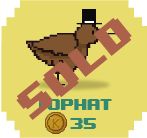
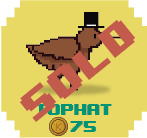
BackKeyCatcher implementado con problemas

diff --git a/core/src/com/mygdx/menudemo/StartScreen.java b/core/src/com/mygdx/menudemo/StartScreen.java
@@ -1,6 +1,7 @@
 package com.mygdx.menudemo;
 
 import com.badlogic.gdx.Gdx;
+import com.badlogic.gdx.Input;
 import com.badlogic.gdx.Preferences;
 import com.badlogic.gdx.ScreenAdapter;
 import com.badlogic.gdx.audio.Music;
@@ -45,6 +46,12 @@ class StartScreen extends ScreenAdapter {
     private Music music;
     private Preferences preferencias;
     private float musicVolume;
+    private Texture quitPanelTexture;
+    private Texture yesQuitTexture;
+    private Texture yesQuitPressTexture;
+    private Texture noQuitTexture;
+    private Texture noQuitPressTexture;
+    private Stage quitStage;
 
 
     public StartScreen(MenuDemo menuDemo) {
@@ -143,6 +150,35 @@ class StartScreen extends ScreenAdapter {
             }
         });
 
+        quitStage = new Stage(new FitViewport(WORLD_WIDTH, WORLD_HEIGHT));
+
+        /*quitPanelTexture = new Texture(Gdx.files.internal("back/quitpanel.png"));
+        Image quitPanel = new Image(quitPanelTexture);
+
+        yesQuitTexture = new Texture(Gdx.files.internal("back/yes.png"));
+        yesQuitPressTexture = new Texture(Gdx.files.internal("back/yesPress.png"));
+        ImageButton yesQuit = new ImageButton(new TextureRegionDrawable(new TextureRegion(yesQuitTexture)), new TextureRegionDrawable(new TextureRegion(yesQuitPressTexture)));
+        yesQuit.addListener(new ActorGestureListener(){
+            @Override
+            public void tap(InputEvent event, float x, float y, int count, int button) {
+                Gdx.app.exit();
+            }
+        });
+
+        noQuitTexture = new Texture(Gdx.files.internal("back/no.png"));
+        noQuitPressTexture = new Texture(Gdx.files.internal("back/noPress.png"));
+        ImageButton noQuit = new ImageButton(new TextureRegionDrawable(new TextureRegion(noQuitTexture)), new TextureRegionDrawable(new TextureRegion(noQuitPressTexture)));
+        noQuit.addListener(new ActorGestureListener(){
+            @Override
+            public void tap(InputEvent event, float x, float y, int count, int button) {
+                quitStage.clear();
+            }
+        });
+
+        quitStage.addActor(quitPanel);
+        quitStage.addActor(yesQuit);
+        quitStage.addActor(noQuit);*/
+
         table = new Table();
         //table.debug(); //Enables debug
 
@@ -164,16 +200,12 @@ class StartScreen extends ScreenAdapter {
         table.add(play).colspan(2);
 
         table.add(closet);
-
-        // Pack table
         table.setFillParent(true);
         table.pack();
-
-        // Set titles's alpha to 0
-        //title.getColor().a = 0f;
-        // Adds created table to stage
         stage.addActor(table);
 
+        Gdx.input.setInputProcessor(stage);
+        Gdx.input.setCatchBackKey(true);
     }
 
     @Override
@@ -186,9 +218,16 @@ class StartScreen extends ScreenAdapter {
     public void render(float delta) {
         super.render(delta);
         clearScreen();
+        //backKey();
         updateVolume();
         stage.act(delta);
         stage.draw();
+    }
+
+    private void backKey() {
+        if(Gdx.input.isKeyPressed(Input.Keys.BACK)){
+            quitStage.draw();
+        }
     }
 
     private void loadPreferences() {

diff --git a/core/src/com/mygdx/menudemo/ShopScreen.java b/core/src/com/mygdx/menudemo/ShopScreen.java
@@ -190,7 +190,7 @@ class ShopScreen extends ScreenAdapter {
             party.addListener(new ActorGestureListener() {
                 @Override
                 public void tap(InputEvent event, float x, float y, int count, int button) {
-                    costo = 30;
+                    costo = 100;
                     checkIfCanAfford(costo);
                 }
             });
@@ -211,7 +211,7 @@ class ShopScreen extends ScreenAdapter {
             hat.addListener(new ActorGestureListener() {
                 @Override
                 public void tap(InputEvent event, float x, float y, int count, int button) {
-                    costo = 35;
+                    costo = 75;
                     checkIfCanAfford(costo);
                 }
             });
@@ -232,7 +232,7 @@ class ShopScreen extends ScreenAdapter {
             tie.addListener(new ActorGestureListener() {
                 @Override
                 public void tap(InputEvent event, float x, float y, int count, int button) {
-                    costo = 40;
+                    costo = 85;
                     checkIfCanAfford(costo);
                 }
             });
@@ -253,7 +253,7 @@ class ShopScreen extends ScreenAdapter {
             crown.addListener(new ActorGestureListener() {
                 @Override
                 public void tap(InputEvent event, float x, float y, int count, int button) {
-                    costo = 50;
+                    costo = 120;
                     checkIfCanAfford(costo);
                 }
             });
@@ -626,10 +626,10 @@ class ShopScreen extends ScreenAdapter {
 
     private void savePreferences() {
         preferencias.putInteger("coins", coinsCollected);
-        if(costo == 30)preferencias.putBoolean("partyBought", true);
-        else if (costo==35)preferencias.putBoolean("hatBought", true);
-        else if(costo == 40)preferencias.putBoolean("tieBought", true);
-        else if (costo == 50)preferencias.putBoolean("crownBought", true);
+        if(costo == 100)preferencias.putBoolean("partyBought", true);
+        else if (costo==75)preferencias.putBoolean("hatBought", true);
+        else if(costo == 85)preferencias.putBoolean("tieBought", true);
+        else if (costo == 120)preferencias.putBoolean("crownBought", true);
         else if(costo == 150)preferencias.putBoolean("hulkBought",  true);
         else if(costo == 400)preferencias.putBoolean("ricardoBought", true);
         preferencias.flush();
